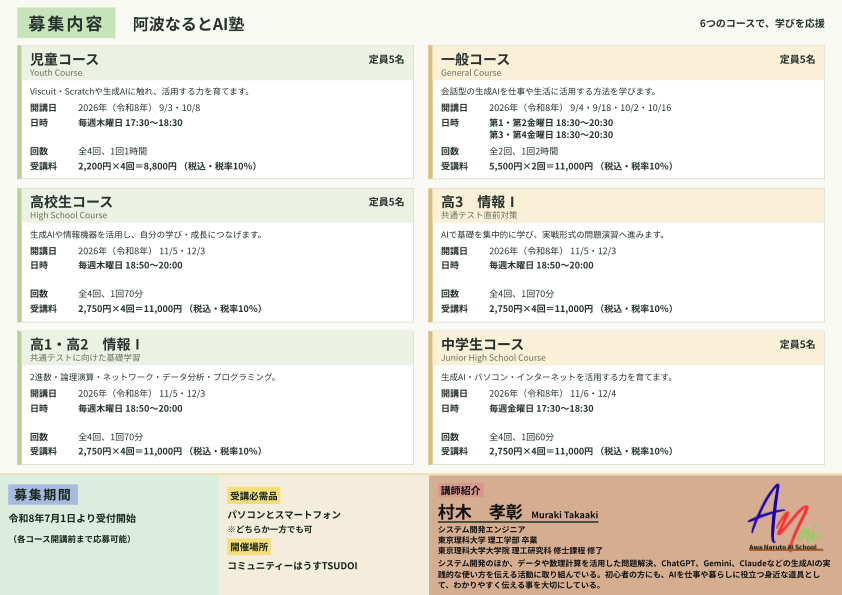
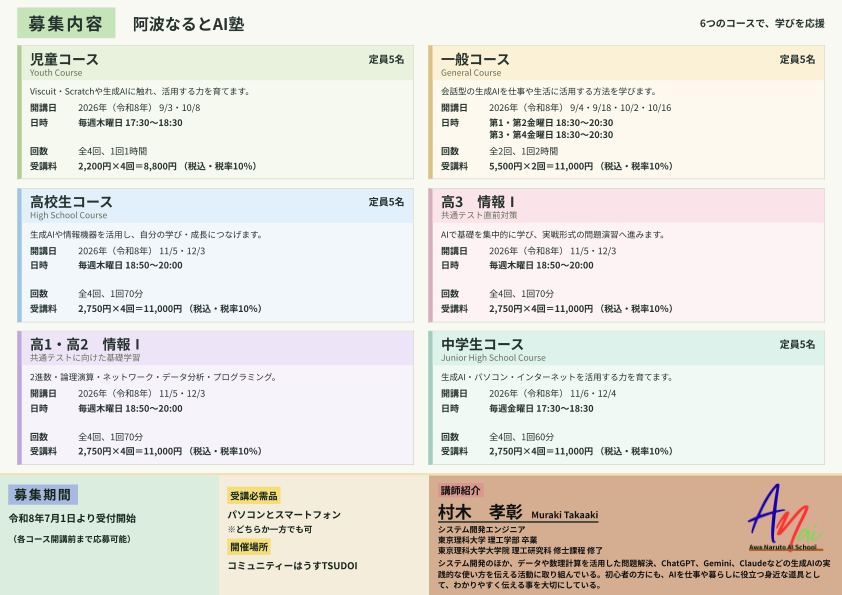
Give each flyer course a distinct pastel color

Changed region(s): [[0.4941, 0.3025, 0.9881, 0.7866], [0.0, 0.3025, 0.0309, 0.7866]]

diff --git a/src/チラシ2ページ目.html b/src/チラシ2ページ目.html
@@ -14,10 +14,15 @@ button { padding: 9px 18px; background: #314e3b; color: white; border: 0; border
 .school-name { font-size: 16pt; font-weight: 700; }
 .tagline { margin-left: auto; font-size: 10pt; font-weight: 700; }
 .courses { display: grid; grid-template-columns: repeat(2,minmax(0,1fr)); grid-template-rows: repeat(3,minmax(0,1fr)); gap: 3mm 5mm; padding: 0 6mm 3mm; }
-.course { min-width: 0; background: rgba(255, 255, 255, .78); border: .2mm solid #d9d9ca; border-left: 1.8mm solid #b8d198; break-inside: avoid; }
-.course:nth-child(even) { border-left-color: #dfbd79; }
-.course-header { background: rgba(236, 243, 227, .88); height: 12mm; display: flex; justify-content: space-between; align-items: flex-start; padding: 1.4mm 3mm; }
-.course:nth-child(even) .course-header { background: rgba(250, 240, 216, .88); }
+.course { min-width: 0; background: rgba(var(--course-tint), .72); border: .2mm solid #d9d9ca; border-left: 1.8mm solid var(--course-accent); break-inside: avoid; }
+/* 各コースの淡い配色：本文・見出し・左罫線を同じ色系統にします。 */
+.course:nth-child(1) { --course-tint: 245, 250, 239; --course-heading: 232, 242, 220; --course-accent: #b4cc97; } /* 児童：若草 */
+.course:nth-child(2) { --course-tint: 255, 251, 238; --course-heading: 250, 240, 211; --course-accent: #dbc385; } /* 一般：クリーム */
+.course:nth-child(3) { --course-tint: 240, 248, 255; --course-heading: 224, 239, 251; --course-accent: #a2c5df; } /* 高校生：水色 */
+.course:nth-child(4) { --course-tint: 255, 243, 245; --course-heading: 250, 226, 233; --course-accent: #d9aebc; } /* 高3：桜色 */
+.course:nth-child(5) { --course-tint: 248, 243, 255; --course-heading: 237, 227, 248; --course-accent: #bfa9d9; } /* 高1・高2：藤色 */
+.course:nth-child(6) { --course-tint: 239, 250, 247; --course-heading: 220, 242, 234; --course-accent: #a2cdbf; } /* 中学生：ミント */
+.course-header { background: rgba(var(--course-heading), .88); height: 12mm; display: flex; justify-content: space-between; align-items: flex-start; padding: 1.4mm 3mm; }
 h2 { font-size: 14pt; line-height: 1.15; margin: 0; }
 .subtitle { font-size: 8.5pt; color: #68705f; margin: .4mm 0 0; line-height: 1.2; }
 .capacity { font-size: 10pt; white-space: nowrap; font-weight: 700; padding-top: .6mm; }

diff --git a/src/チラシ2ページ目_講師紹介入り.html b/src/チラシ2ページ目_講師紹介入り.html
@@ -14,10 +14,15 @@ button { padding: 9px 18px; background: #314e3b; color: white; border: 0; border
 .school-name { font-size: 16pt; font-weight: 700; }
 .tagline { margin-left: auto; font-size: 10pt; font-weight: 700; }
 .courses { display: grid; grid-template-columns: repeat(2,minmax(0,1fr)); grid-template-rows: repeat(3,minmax(0,1fr)); gap: 3mm 5mm; padding: 0 6mm 3mm; }
-.course { min-width: 0; background: rgba(255, 255, 255, .78); border: .2mm solid #d9d9ca; border-left: 1.8mm solid #b8d198; break-inside: avoid; }
-.course:nth-child(even) { border-left-color: #dfbd79; }
-.course-header { background: rgba(236, 243, 227, .88); height: 12mm; display: flex; justify-content: space-between; align-items: flex-start; padding: 1.4mm 3mm; }
-.course:nth-child(even) .course-header { background: rgba(250, 240, 216, .88); }
+.course { min-width: 0; background: rgba(var(--course-tint), .72); border: .2mm solid #d9d9ca; border-left: 1.8mm solid var(--course-accent); break-inside: avoid; }
+/* 各コースの淡い配色：本文・見出し・左罫線を同じ色系統にします。 */
+.course:nth-child(1) { --course-tint: 245, 250, 239; --course-heading: 232, 242, 220; --course-accent: #b4cc97; } /* 児童：若草 */
+.course:nth-child(2) { --course-tint: 255, 251, 238; --course-heading: 250, 240, 211; --course-accent: #dbc385; } /* 一般：クリーム */
+.course:nth-child(3) { --course-tint: 240, 248, 255; --course-heading: 224, 239, 251; --course-accent: #a2c5df; } /* 高校生：水色 */
+.course:nth-child(4) { --course-tint: 255, 243, 245; --course-heading: 250, 226, 233; --course-accent: #d9aebc; } /* 高3：桜色 */
+.course:nth-child(5) { --course-tint: 248, 243, 255; --course-heading: 237, 227, 248; --course-accent: #bfa9d9; } /* 高1・高2：藤色 */
+.course:nth-child(6) { --course-tint: 239, 250, 247; --course-heading: 220, 242, 234; --course-accent: #a2cdbf; } /* 中学生：ミント */
+.course-header { background: rgba(var(--course-heading), .88); height: 12mm; display: flex; justify-content: space-between; align-items: flex-start; padding: 1.4mm 3mm; }
 h2 { font-size: 14pt; line-height: 1.15; margin: 0; }
 .subtitle { font-size: 8.5pt; color: #68705f; margin: .4mm 0 0; line-height: 1.2; }
 .capacity { font-size: 10pt; white-space: nowrap; font-weight: 700; padding-top: .6mm; }
